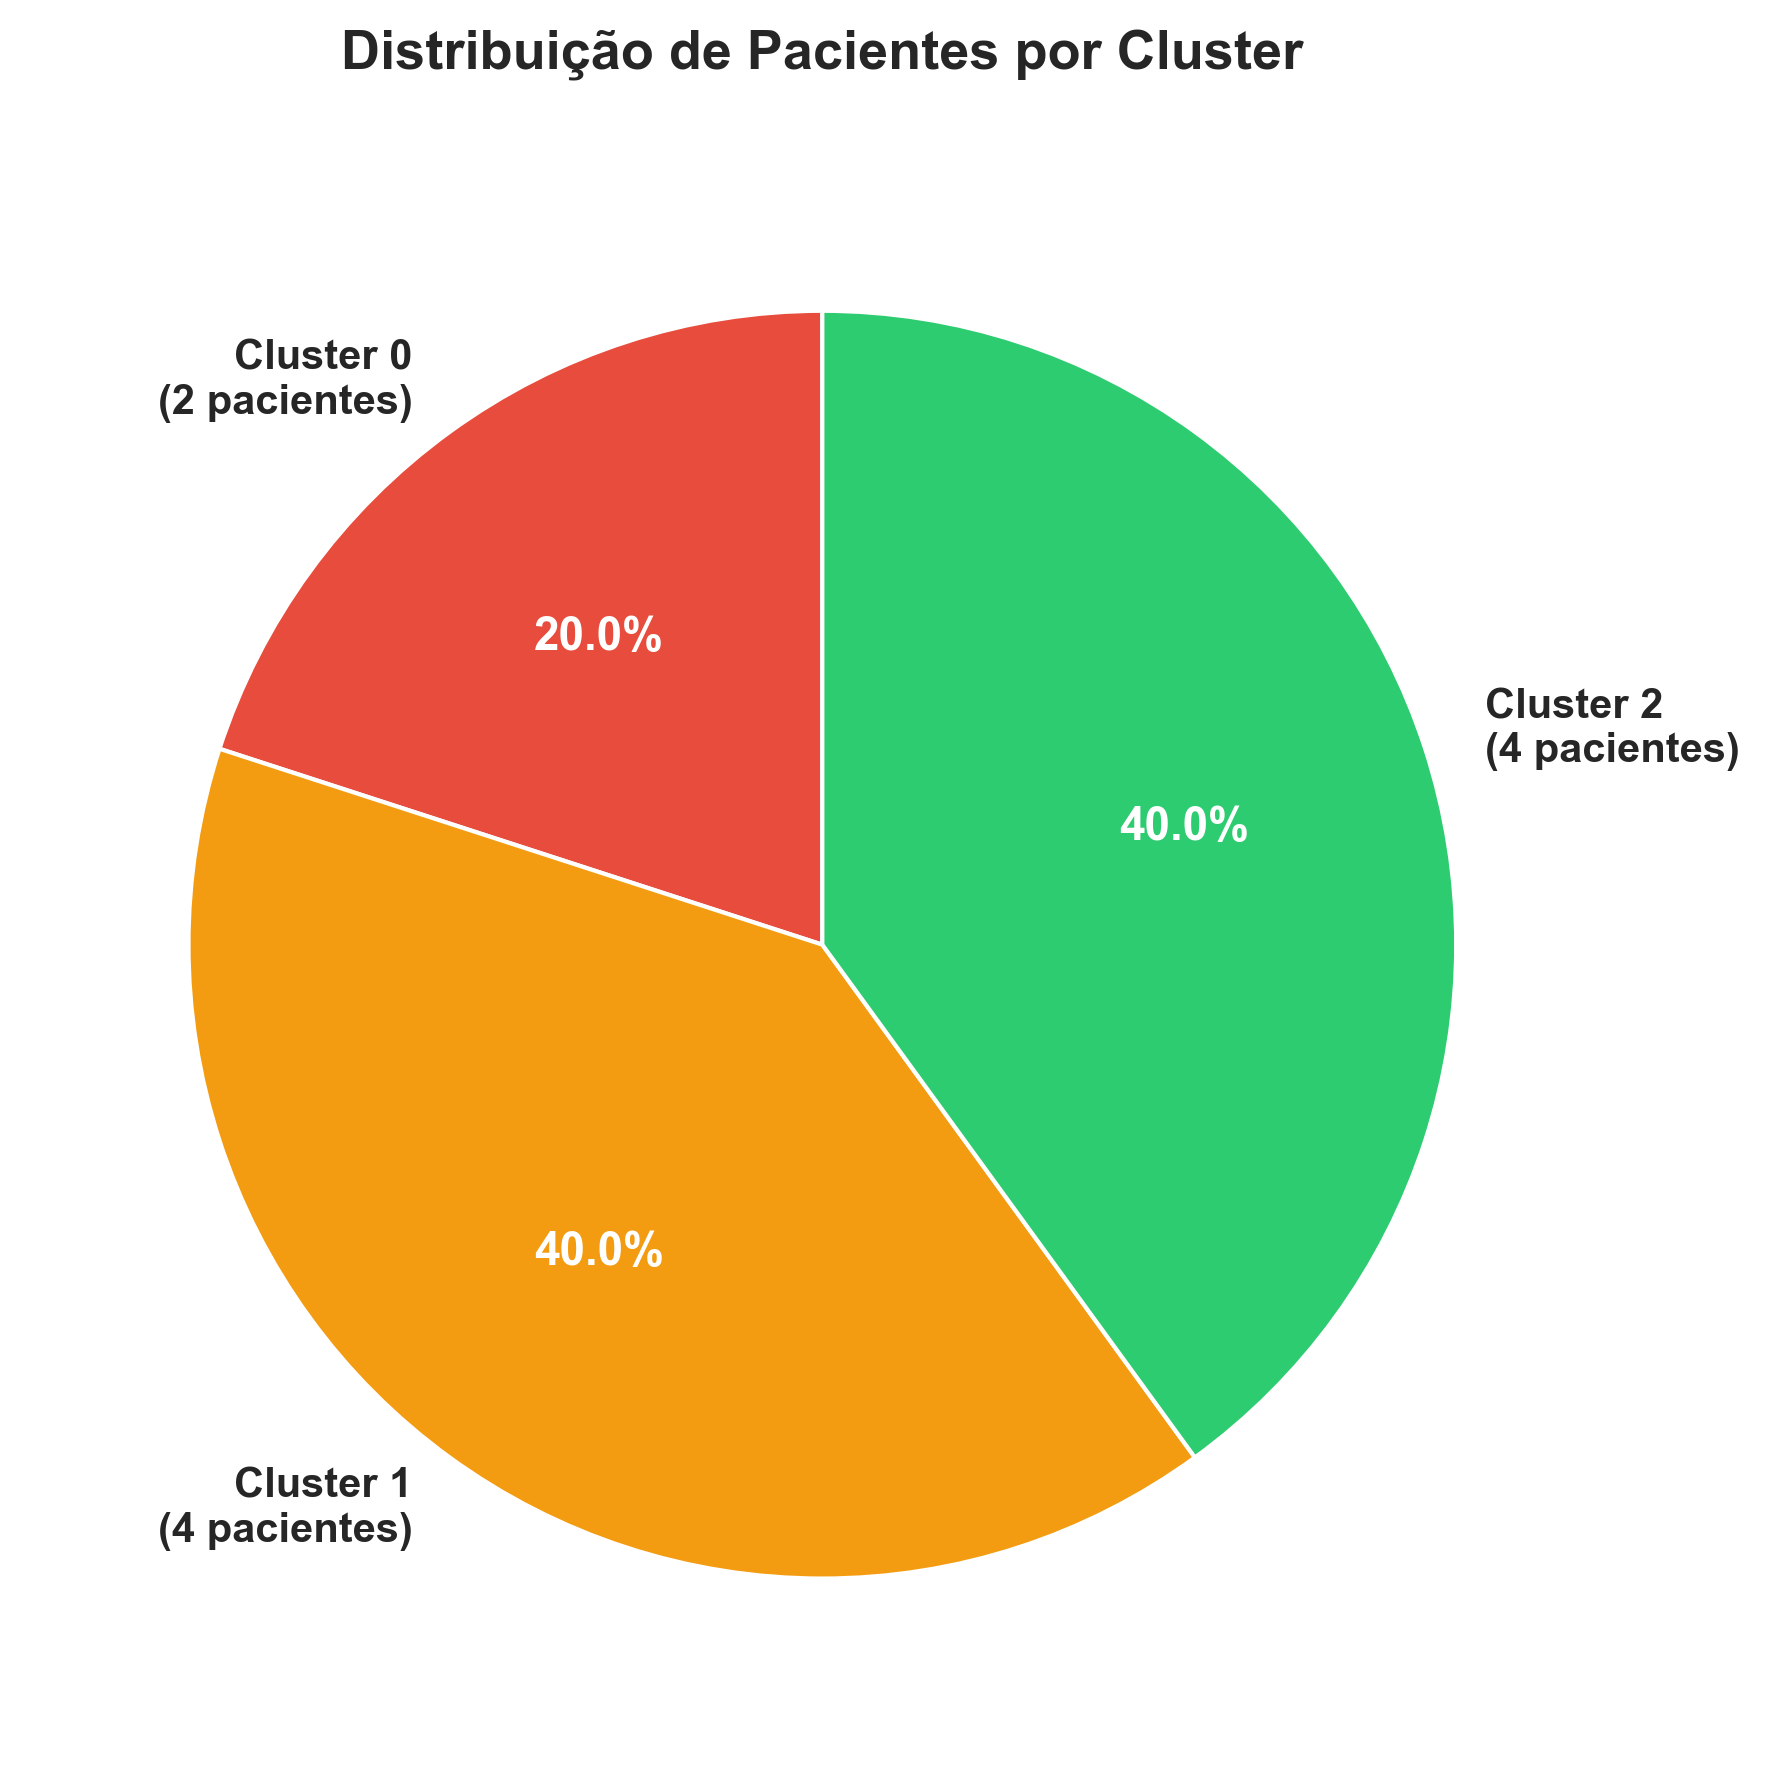
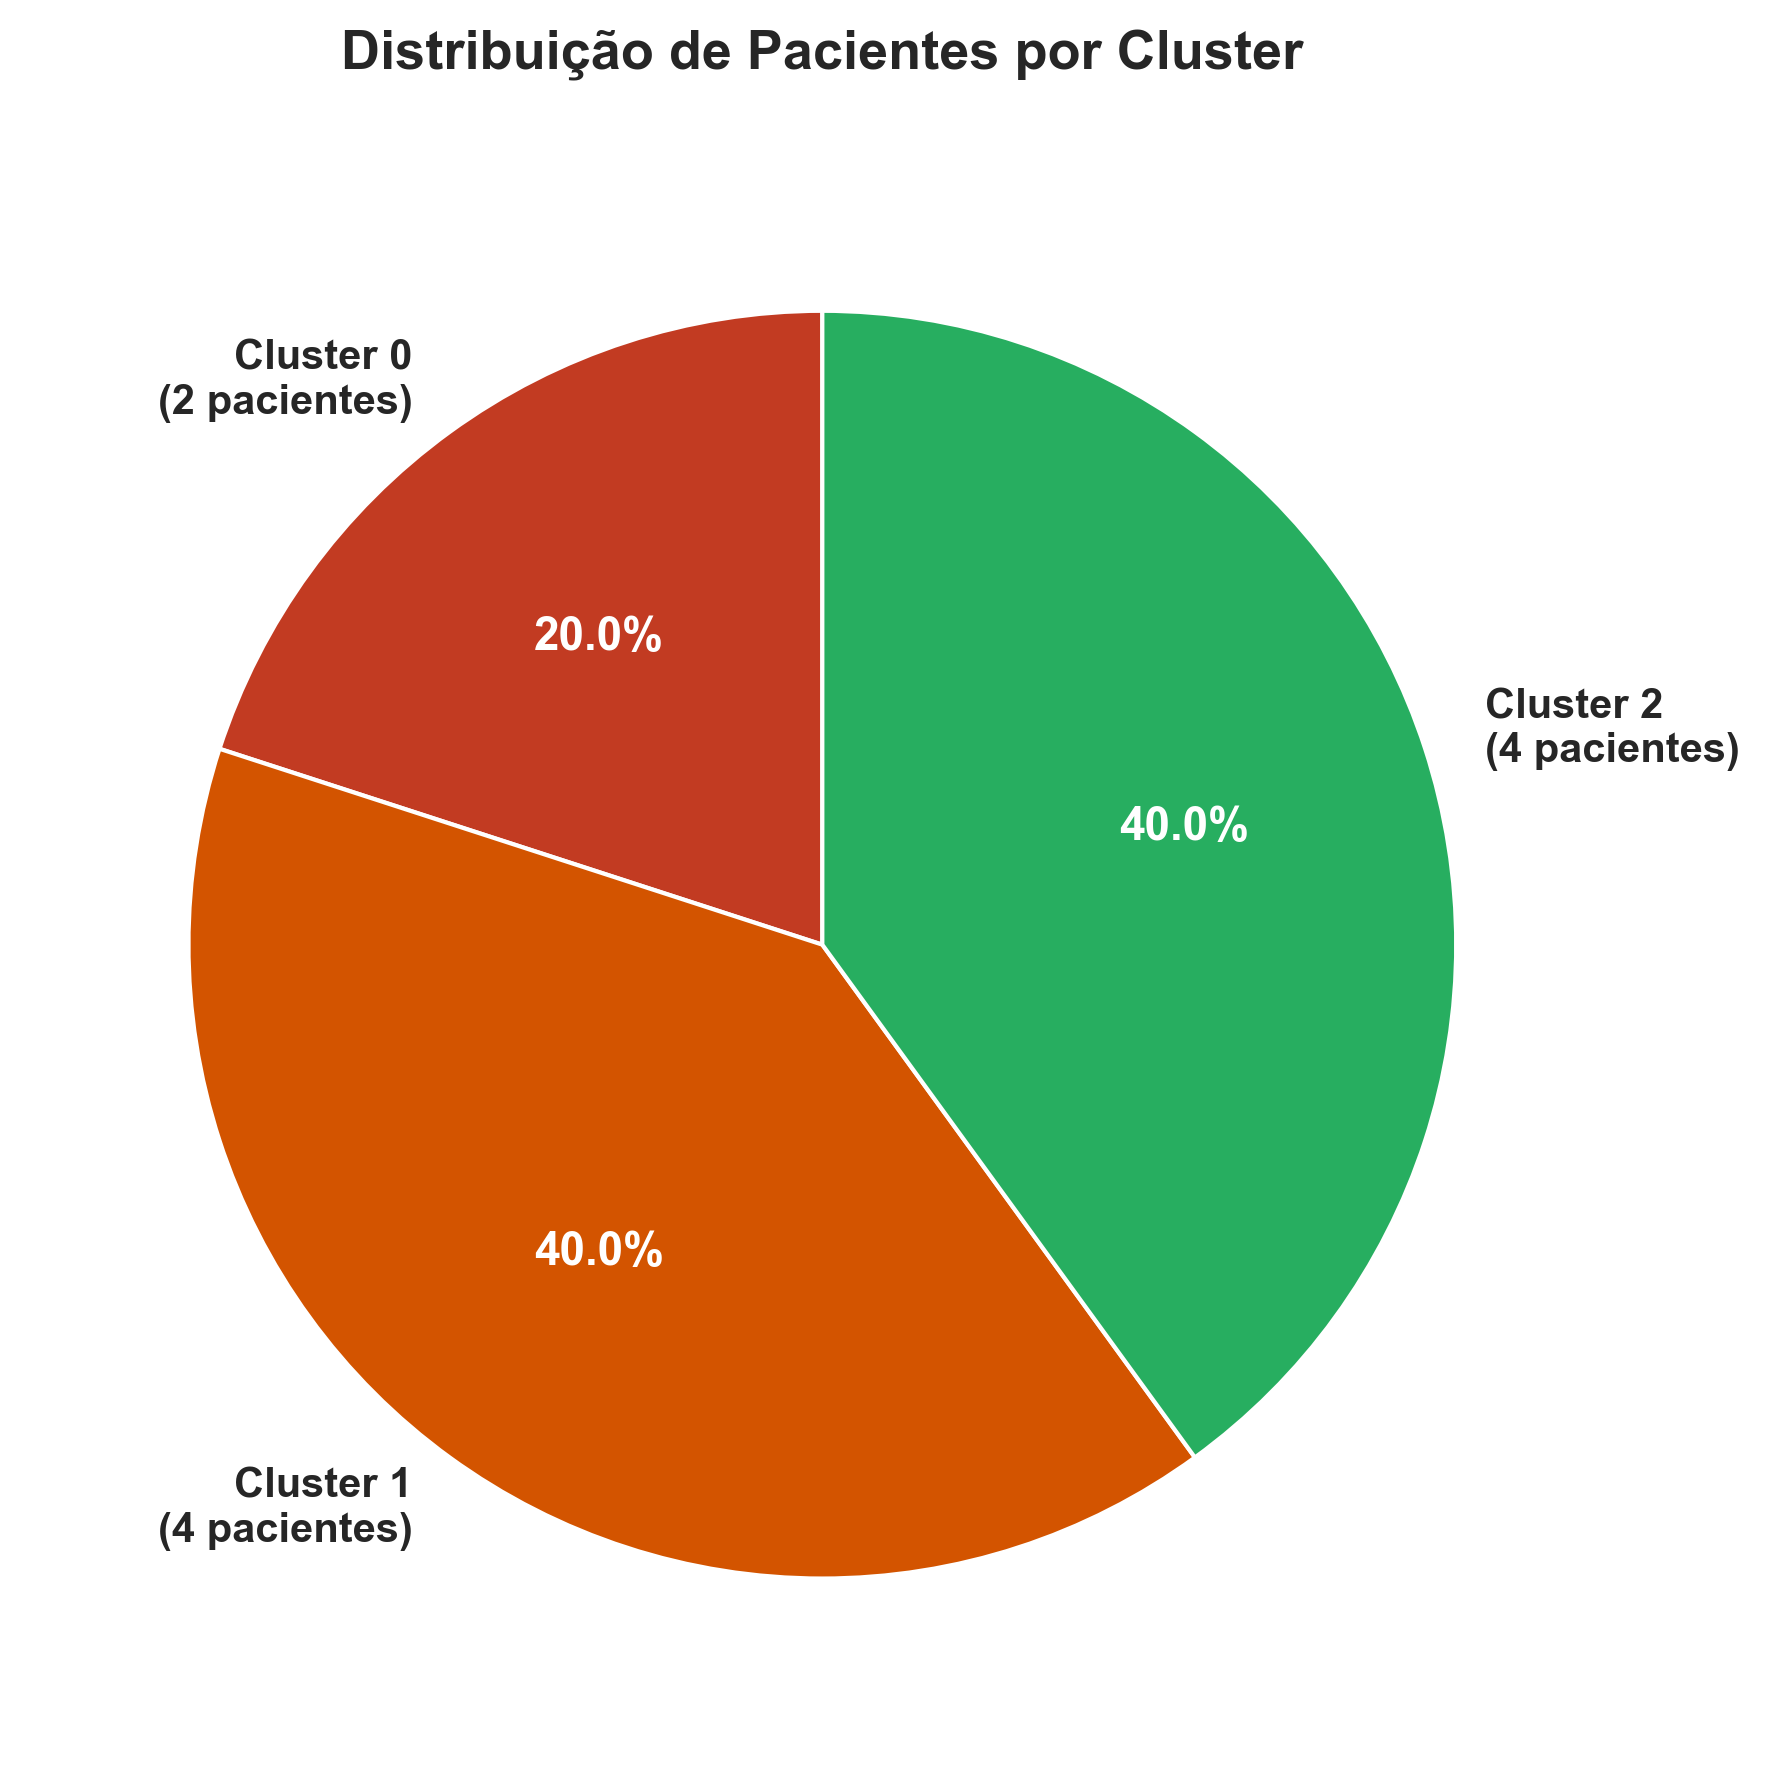
commit - ajuste gráficos de kmeans

diff --git a/backend/data_science_standalone.py b/backend/data_science_standalone.py
@@ -19,7 +19,7 @@ DB_CONFIG = {
     'host': '127.0.0.1',
     'port': 50000,
     'user': 'postgres',
-    'password': '123456',
+    'password': '9090',
     'database': 'prontuario_eletronico'
 }
 
@@ -126,7 +126,35 @@ def generate_graphics(results, output_dir="graficos"):
         os.makedirs(output_dir)
     
     df = results["df_analysis"]
-    cores = ['#e74c3c', '#f39c12', '#2ecc71']
+    cores = ['#c23b22', '#d35400', '#27ae60']  # Vermelho, Laranja, Verde
+    
+    # --- GRÁFICO 0: Scatterplot K-Means (Glicose vs Colesterol) ---
+    fig, ax = plt.subplots(figsize=(12, 8))
+    
+    # Plotar pontos por cluster
+    for cluster in df['Cluster'].unique():
+        cluster_data = df[df['Cluster'] == cluster]
+        ax.scatter(cluster_data['glicose'], cluster_data['colesterol'], 
+                   s=150, c=cores[int(cluster)], marker='D', 
+                   edgecolors='black', linewidth=1.5,
+                   label=f'Cluster {int(cluster)}', alpha=0.7)
+    
+    # Plotar centróides
+    centroides = results["centroides"]
+    for idx, (cluster_id, row) in enumerate(centroides.iterrows()):
+        ax.scatter(row['glicose'], row['colesterol'], 
+                   s=400, marker='o', c='black', edgecolors='white', 
+                   linewidth=2, zorder=5, alpha=0.9)
+    
+    ax.set_xlabel('Glicose (mg/dL)', fontsize=12, fontweight='bold')
+    ax.set_ylabel('Colesterol Total (mg/dL)', fontsize=12, fontweight='bold')
+    ax.set_title('Análise K-Means: Glicose vs Colesterol', fontsize=14, fontweight='bold', pad=20)
+    ax.legend(fontsize=11, loc='best')
+    ax.grid(True, alpha=0.3)
+    
+    plt.tight_layout()
+    plt.savefig(f'{output_dir}/00_scatterplot_kmeans.png', dpi=300, bbox_inches='tight')
+    plt.close()
     
     # --- GRÁFICO 1: Distribuição por Cluster ---
     fig, ax = plt.subplots(figsize=(10, 6))
